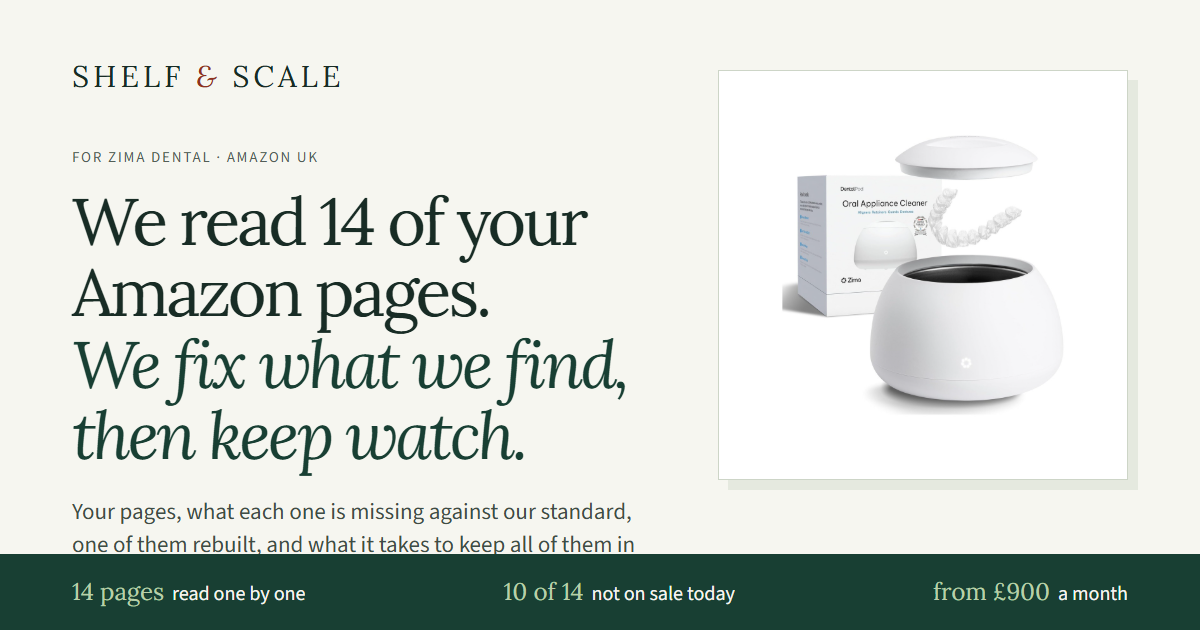
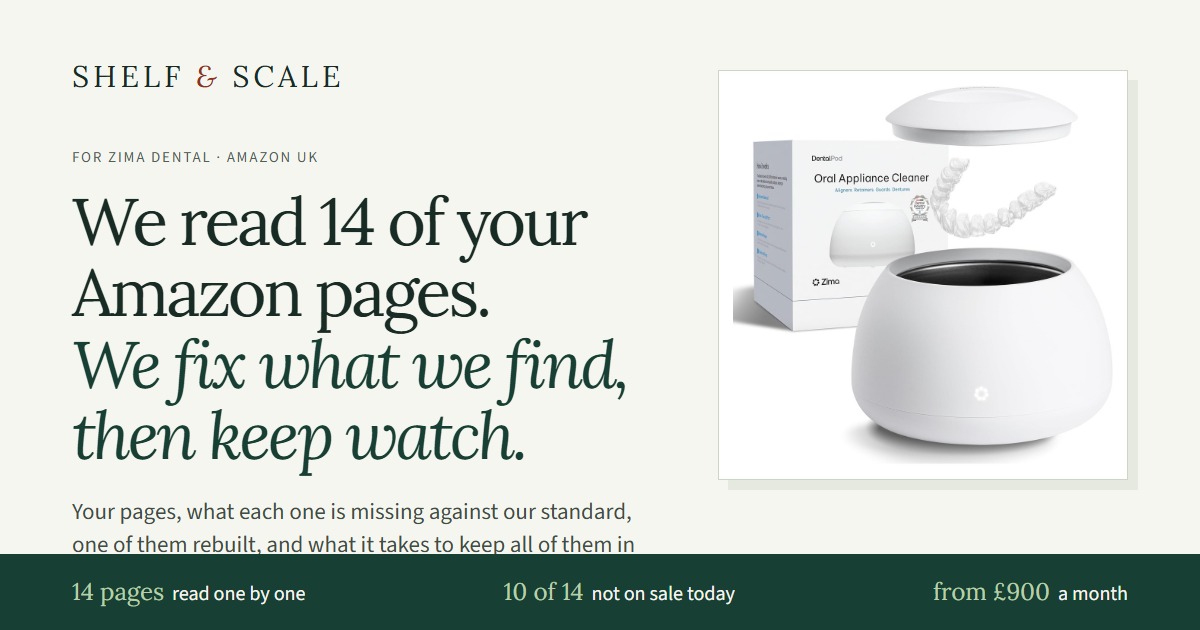
Sons: duplicate page on phones; Zima: own gallery kept; Minky: own seller account, table fix

Changed region(s): [[0.5858, 0.1508, 0.8942, 0.754], [0.8325, 0.3016, 0.8942, 0.3619]]

diff --git a/r/zima-dental-care/index.html b/r/zima-dental-care/index.html
@@ -46,12 +46,12 @@
     </div>
     <div class="hero-art">
       <div class="product-sheet">
-        <div class="sheet-top"><span class="micro">POD · REBUILT</span><span class="sheet-number">B0H6Q5M6P3</span></div>
-        <div class="packshot" style="height:auto;aspect-ratio:1224 / 1000;max-height:418px"><img src="img/pod-main-hero-v1.jpg" width="1000" height="1000" alt="Your Zima Dental Pod and box on white" fetchpriority="high"></div>
+        <div class="sheet-top"><span class="micro">POD · NEW TITLE</span><span class="sheet-number">B0H6Q5M6P3</span></div>
+        <div class="packshot" style="height:auto;aspect-ratio:1224 / 1000;max-height:418px"><img src="img/pod-main-hero-v1.jpg" width="1000" height="1000" alt="Your Zima Dental Pod and box, your own main photo" fetchpriority="high"></div>
         <div class="sheet-product"><span>ZIMA DENTAL</span><h2>Pod Next-Generation, Arctic White</h2><p>298 ratings · 4.6 stars · 1K+ bought in past month · £79.99</p></div>
         <div class="sheet-checks"><span><i aria-hidden="true">✓</i> Same account</span><span><i aria-hidden="true">✓</i> Your price</span><span><i aria-hidden="true">✓</i> Every page checked weekly</span></div>
       </div>
-      <div class="art-caption"><span class="micro">MAIN IMAGE</span><span>Your own Pod and box on white, with room around them</span></div>
+      <div class="art-caption"><span class="micro">YOUR PHOTO</span><span>Your own main photo, kept: your gallery is strong</span></div>
     </div>
   </section>
   <!-- THREE NUMBERS -->
@@ -113,13 +113,13 @@
   </section>
   <!-- THE EXAMPLE -->
   <section class="container section" id="example" aria-labelledby="example-title">
-    <div class="section-heading"><div><p class="eyebrow">02 / THE EXAMPLE</p><h2 id="example-title">Your Pod Next-Generation, today <em class="ln">and rebuilt.</em></h2></div><p>Most Amazon UK shoppers see a page on a phone. This is the first screen: photo, title, stars, and whether they can buy. The left phone is your page as it stands today; the right is our concept for the same page, at your price. In Care the title, bullets and search terms are rewritten and new photos like these come in the monthly quota; A+ is quoted per page.</p></div>
+    <div class="section-heading"><div><p class="eyebrow">02 / THE EXAMPLE</p><h2 id="example-title">Your Pod Next-Generation, today <em class="ln">and with a new title.</em></h2></div><p>Most Amazon UK shoppers see a page on a phone. The left phone is your page as it stands today; the right is the same page with the title rewritten to carry "retainer cleaner", at your price. The photos are yours on both: the gallery is strong, so it stays as it is.</p></div>
 
 
     <div class="phones-block">
-  <div class="page-head"><span class="page-num">01</span><h3>Pod Next-Generation, Arctic White</h3><p>298 ratings · 4.6 stars · 1K+ bought in past month</p><span class="page-asin">B0H6Q5M6P3</span><dl class="page-delta"><div><dt>Title</dt><dd><s>Zima Dental Pod: Next-Generation Ultrasonic Cleaner for Retainers, Aligners, Night Guards, Mouthguards & Dentures. Precision Oral Appliance Cleaning Machine (Arctic White)</s><br>Zima Dental Pod: Next-Generation Ultrasonic Retainer Cleaner for Aligners, Night Guards, Mouthguards & Dentures (Arctic White)</dd></div><div><dt>Main image</dt><dd>Your photo: box, Pod, lid and aligner filling the frame → the same pieces on white with white around them; made in the monthly photo quota</dd></div><div><dt>Bullets</dt><dd>Five lines that already carry the facts: what it cleans, the ultrasonic technology, two modes, the 12-month warranty → they keep your wording and your award line; the order follows a shopper's questions, and "retainer cleaner" now opens the title as well as bullet 1</dd></div><div><dt>Gallery</dt><dd>Eight photos, a video and A+, already above our seven → kept; the first three made to answer what is it, what is it like, how do I use it. A+ is already on the page</dd></div><div><dt>Offer</dt><dd>Unchanged: ZIMA DENTAL UK at £79.99, in stock. The price is yours to set</dd></div></dl></div>
+  <div class="page-head"><span class="page-num">01</span><h3>Pod Next-Generation, Arctic White</h3><p>298 ratings · 4.6 stars · 1K+ bought in past month</p><span class="page-asin">B0H6Q5M6P3</span><dl class="page-delta"><div><dt>Title</dt><dd><s>Zima Dental Pod: Next-Generation Ultrasonic Cleaner for Retainers, Aligners, Night Guards, Mouthguards & Dentures. Precision Oral Appliance Cleaning Machine (Arctic White)</s><br>Zima Dental Pod: Next-Generation Ultrasonic Retainer Cleaner for Aligners, Night Guards, Mouthguards & Dentures (Arctic White)</dd></div><div><dt>Main image</dt><dd>Your photo: box, Pod, lid and aligner → kept as it is</dd></div><div><dt>Bullets</dt><dd>Five lines that already carry the facts: what it cleans, the ultrasonic technology, two modes, the 12-month warranty → they keep your wording and your award line; the order follows a shopper's questions, and "retainer cleaner" now opens the title as well as bullet 1</dd></div><div><dt>Gallery</dt><dd>Eight photos, five videos and A+: a strong gallery → stays as it is; we make no new frames for this page</dd></div><div><dt>Offer</dt><dd>Unchanged: ZIMA DENTAL UK at £79.99, in stock. The price is yours to set</dd></div></dl></div>
   <div>
-  <div class="ph-toggle" role="tablist" aria-label="Show the page"><button type="button" class="on" data-show="today">Today</button><button type="button" data-show="after">Rebuilt</button></div>
+  <div class="ph-toggle" role="tablist" aria-label="Show the page"><button type="button" class="on" data-show="today">Today</button><button type="button" data-show="after">New title</button></div>
   <div class="phones" data-show="today">
     <figure class="phone today"><div class="ph-device"><div class="ph-screen">
   <div class="ph-status"></div><div class="ph-search"><svg class="ph-back" viewBox="0 0 16 16" fill="none" stroke="#0f1111" stroke-width="1.8" stroke-linecap="round" stroke-linejoin="round"><path d="M10 2 4 8l6 6"/></svg><span class="ph-box"><svg width="13" height="13" viewBox="0 0 16 16" fill="none" stroke="#565959" stroke-width="1.8" stroke-linecap="round"><circle cx="6.8" cy="6.8" r="5"/><path d="m10.5 10.5 4 4"/></svg>Search or ask a question</span><svg width="16" height="14" viewBox="0 0 20 17" fill="none" stroke="#0f1111" stroke-width="1.6" stroke-linejoin="round"><path d="M2 5h3.5l1.5-2.5h6L14.5 5H18v10H2z"/><circle cx="10" cy="10" r="3"/></svg></div>
@@ -128,8 +128,8 @@
 
     <figure class="phone after"><div class="ph-device"><div class="ph-screen">
   <div class="ph-status"></div><div class="ph-search"><svg class="ph-back" viewBox="0 0 16 16" fill="none" stroke="#0f1111" stroke-width="1.8" stroke-linecap="round" stroke-linejoin="round"><path d="M10 2 4 8l6 6"/></svg><span class="ph-box"><svg width="13" height="13" viewBox="0 0 16 16" fill="none" stroke="#565959" stroke-width="1.8" stroke-linecap="round"><circle cx="6.8" cy="6.8" r="5"/><path d="m10.5 10.5 4 4"/></svg>Search or ask a question</span><svg width="16" height="14" viewBox="0 0 20 17" fill="none" stroke="#0f1111" stroke-width="1.6" stroke-linejoin="round"><path d="M2 5h3.5l1.5-2.5h6L14.5 5H18v10H2z"/><circle cx="10" cy="10" r="3"/></svg></div>
-  <div class="ph-body"><div class="ph-store"><a>Visit the Zima Dental Store</a><span class="ph-rating"><span>4.6</span><span class="stars">★★★★☆</span><span class="ph-n">(298)</span></span></div><div class="ph-title">Zima Dental Pod: Next-Generation Ultrasonic <u>Retainer Cleaner</u> for Aligners, Night Guards, Mouthguards & Dentures (Arctic White)</div><div class="ph-img"><img src="img/pod-main-v1.jpg" alt="Pod rebuilt: the new main image, concept" loading="lazy" width="800" height="800"><div class="ph-dots"><i class="on"></i><i></i><i></i><i></i><i></i><i></i><i></i><i></i><span class="ph-icons"><svg width="16" height="15" viewBox="0 0 24 22" fill="none" stroke="#0f1111" stroke-width="1.8"><path d="M12 20s-9-5.6-9-12a5 5 0 0 1 9-3 5 5 0 0 1 9 3c0 6.4-9 12-9 12z"/></svg><svg width="15" height="15" viewBox="0 0 24 24" fill="none" stroke="#0f1111" stroke-width="1.8" stroke-linecap="round"><circle cx="18" cy="5" r="2.5"/><circle cx="6" cy="12" r="2.5"/><circle cx="18" cy="19" r="2.5"/><path d="m8.2 10.8 7.6-4.6M8.2 13.2l7.6 4.6"/></svg></span></div></div><div class="ph-price"><span class="ph-sym">£</span>79.99</div><div class="ph-avail">In stock</div><div class="ph-save"><span class="ph-btn yellow">Add to Basket</span><span class="ph-btn orange">Buy Now</span></div><div class="ph-nav"><span class="cur"><svg width="20" height="20" viewBox="0 0 24 24" fill="none" stroke="#0f1111" stroke-width="1.7" stroke-linejoin="round"><path d="M3 11 12 3l9 8v10h-6v-6H9v6H3z"/></svg><b>Home</b></span><span><svg width="20" height="20" viewBox="0 0 24 24" fill="none" stroke="#0f1111" stroke-width="1.7"><circle cx="12" cy="8" r="4"/><path d="M4 21a8 8 0 0 1 16 0"/></svg><b>You</b></span><span><svg width="20" height="20" viewBox="0 0 24 24" fill="none" stroke="#0f1111" stroke-width="1.7" stroke-linejoin="round"><path d="M3 4h2l2.5 11h11L21 7H6.5"/><circle cx="9" cy="19" r="1.5"/><circle cx="17" cy="19" r="1.5"/></svg><b>Basket</b></span><span><svg width="20" height="20" viewBox="0 0 24 24" fill="none" stroke="#0f1111" stroke-width="1.7" stroke-linecap="round"><path d="M4 7h16M4 12h16M4 17h16"/></svg><b>Browse</b></span></div><div class="ph-home"></div></div>
-</div><img class="ph-frame" src="img/frame/iphone.png" alt="" width="640" height="1283" loading="lazy"></div><figcaption>Rebuilt · our concept · your price today</figcaption></figure>
+  <div class="ph-body"><div class="ph-store"><a>Visit the Zima Dental Store</a><span class="ph-rating"><span>4.6</span><span class="stars">★★★★☆</span><span class="ph-n">(298)</span></span></div><div class="ph-title">Zima Dental Pod: Next-Generation Ultrasonic <u>Retainer Cleaner</u> for Aligners, Night Guards, Mouthguards & Dentures (Arctic White)</div><div class="ph-img"><img src="img/ph-pod-today.jpg" alt="Pod with the new title, concept: your own main photo, unchanged" loading="lazy" width="800" height="800"><div class="ph-dots"><i class="on"></i><i></i><i></i><i></i><i></i><i></i><i></i><i></i><span class="ph-icons"><svg width="16" height="15" viewBox="0 0 24 22" fill="none" stroke="#0f1111" stroke-width="1.8"><path d="M12 20s-9-5.6-9-12a5 5 0 0 1 9-3 5 5 0 0 1 9 3c0 6.4-9 12-9 12z"/></svg><svg width="15" height="15" viewBox="0 0 24 24" fill="none" stroke="#0f1111" stroke-width="1.8" stroke-linecap="round"><circle cx="18" cy="5" r="2.5"/><circle cx="6" cy="12" r="2.5"/><circle cx="18" cy="19" r="2.5"/><path d="m8.2 10.8 7.6-4.6M8.2 13.2l7.6 4.6"/></svg></span></div></div><div class="ph-price"><span class="ph-sym">£</span>79.99</div><div class="ph-avail">In stock</div><div class="ph-save"><span class="ph-btn yellow">Add to Basket</span><span class="ph-btn orange">Buy Now</span></div><div class="ph-nav"><span class="cur"><svg width="20" height="20" viewBox="0 0 24 24" fill="none" stroke="#0f1111" stroke-width="1.7" stroke-linejoin="round"><path d="M3 11 12 3l9 8v10h-6v-6H9v6H3z"/></svg><b>Home</b></span><span><svg width="20" height="20" viewBox="0 0 24 24" fill="none" stroke="#0f1111" stroke-width="1.7"><circle cx="12" cy="8" r="4"/><path d="M4 21a8 8 0 0 1 16 0"/></svg><b>You</b></span><span><svg width="20" height="20" viewBox="0 0 24 24" fill="none" stroke="#0f1111" stroke-width="1.7" stroke-linejoin="round"><path d="M3 4h2l2.5 11h11L21 7H6.5"/><circle cx="9" cy="19" r="1.5"/><circle cx="17" cy="19" r="1.5"/></svg><b>Basket</b></span><span><svg width="20" height="20" viewBox="0 0 24 24" fill="none" stroke="#0f1111" stroke-width="1.7" stroke-linecap="round"><path d="M4 7h16M4 12h16M4 17h16"/></svg><b>Browse</b></span></div><div class="ph-home"></div></div>
+</div><img class="ph-frame" src="img/frame/iphone.png" alt="" width="640" height="1283" loading="lazy"></div><figcaption>New title · your own photos</figcaption></figure>
 
   </div>
   </div>
@@ -150,19 +150,9 @@
         <p class="note">Zima Dental Pod: Next-Generation stays first, and the title gains the phrase shoppers type, "retainer cleaner", from your own bullet 1. "Precision Oral Appliance Cleaning Machine" repeats what the rest of the title says, so it goes. About 125 characters.</p>
       </div>
       <div class="panel">
-        <span class="micro">SEVEN FRAMES, ONE QUESTION EACH · THREE SHOWN FOR THIS PAGE</span>
-        <div class="frames">
-          <div><i>1</i><img src="img/pod-main-v1.jpg" alt="Frame 1: the Pod, lid and box on white" loading="lazy" width="400" height="400"><span><b>What is it</b>Main image, on white</span></div>
-          <div><i>2</i><img src="img/pod-inside-v1.jpg" alt="Frame 2: the steel tank with an aligner in water and fine bubbles" loading="lazy" width="400" height="400"><span><b>What is it like</b>Inside the tank, an aligner in the water</span></div>
-          <div><i>3</i><img src="img/pod-use-v2.jpg" alt="Frame 3 concept: the Pod on a bathroom vanity, lid off, an aligner inside" loading="lazy" width="400" height="400"><span><b>How do I use it</b>On the bathroom vanity, lid off</span></div>
-        </div>
-        <ol class="frames-rest">
-          <li><i>4</i><b>What does it clean</b> aligners, retainers, night guards, mouthguards and dentures, as in your title and bullet 1</li>
-          <li><i>5</i><b>How does it clean</b> ultrasonic cavitation, in your own words from bullet 3</li>
-          <li><i>6</i><b>Which cycle do I use</b> the standard cycle and Max Clean, from bullet 4</li>
-          <li><i>7</i><b>What if something goes wrong</b> the 12-month warranty and the one-business-day support reply, from bullet 5</li>
-        </ol>
-        <p class="note">Frames 1 to 3 are built from your own product photo for this page: what Care makes for a page in the monthly photo quota (4 pages a month on Care S); frames 4 to 7 show what a full gallery would answer. Your page already carries eight photos, so in Care these would reorder the gallery rather than add to it. A+ is separate and quoted per page.</p>
+        <span class="micro">YOUR GALLERY · STRONG, IT STAYS</span>
+        <p class="own-gallery" style="font-size:17px;line-height:1.5;margin:12px 0 0;color:var(--ink)">Eight photos, five videos and A+ on this page. That is a strong gallery, so we leave it as it is and make no new photos for it.</p>
+        <p class="note">In Care, new photos go first to the pages that need them: Zima Fresh carries two photos and the Zima Go case six. A+ is quoted per page.</p>
       </div>
     </div>
   </section>
@@ -184,7 +174,7 @@
           <article class=""><div class="shelf-img"><img src="img/shelf/t9.jpg" alt="" loading="lazy" width="320" height="320"></div><h4>Ultrasonic Retainer Cleaner with UV-C Light for Aligners, Retainers, Dentures & Mouthguards – Daily Deep Cleaning Dental Appliance Machine Portable, Easy to Use at Home & Travel, White</h4><div class="shelf-rating"><span>4.6</span> <span class="stars">★★★★☆</span> <span class="n">(42)</span></div><div class="shelf-bought">700+ bought in past month</div><div class="shelf-price">£27.95</div></article>
           <article class="you"><span class="you-tag">YOUR PAGE · OUR CONCEPT</span><div class="shelf-img"><img src="img/shelf/t10-v1.jpg" alt="" loading="lazy" width="320" height="320"></div><h4>Zima Dental Pod: Next-Generation Ultrasonic Retainer Cleaner for Aligners, Night Guards, Mouthguards & Dentures (Arctic White)</h4><div class="shelf-rating"><span>4.6</span> <span class="stars">★★★★☆</span> <span class="n">(298)</span></div><div class="shelf-bought">1K+ bought in past month</div><div class="shelf-price">£79.99</div></article>
         </div>
-        <figcaption>Amazon.co.uk, search "retainer cleaner", 12 October 2026, London address, 12 sponsored tiles removed; organic results 6 to 10 in order, titles cut for space, ratings, labels and prices as listed that day. Result 10 is your Pod Next-Generation page, shown as our concept for it: new main image, new title, its rating, label and price as listed. Rank follows sales, and a rebuilt page does not buy a position.</figcaption>
+        <figcaption>Amazon.co.uk, search "retainer cleaner", 12 October 2026, London address, 12 sponsored tiles removed; organic results 6 to 10 in order, titles cut for space, ratings, labels and prices as listed that day. Result 10 is your Pod Next-Generation page, shown as our concept for it: your own photo, the new title, its rating, label and price as listed. Rank follows sales, and a rebuilt page does not buy a position.</figcaption>
       </figure>
     </div>
   </section>
@@ -232,7 +222,7 @@
         <li><strong>Search phrases.</strong> One year of Amazon UK search data, 1.46 million phrases. The rank shown is the phrase's best weekly position in that year.</li>
         <li><strong>The shelf.</strong> Amazon.co.uk search "retainer cleaner", first page, London EC2A address, 12 October 2026: 360 results, 12 sponsored tiles removed. Organic results 6 to 10 are shown; result 10 is your Pod Next-Generation page, shown as our concept; a second colour of it is result 13.</li>
         <li><strong>Your website.</strong> zimadental.co.uk, 12 October 2026: its home page lists the Dental Pod Ultrasonic Cleaner at £79.99, the Pod Pro, the Zima UV Case, Zima Fresh, ultrasonic tablets and bundles. The Hydro Pod is not on the home page of the UK or the US shop.</li>
-        <li><strong>What is real and what is a concept.</strong> Real: every number, date, rating count, search rank, price, and the left phone. Concept: the new title and bullets, the three gallery frames and the hero image, built from Zima Dental's own product photograph. Whether Amazon lets your account change each element of a page is confirmed in the first week of Care, before anything is filed.</li>
+        <li><strong>What is real and what is a concept.</strong> Real: every number, date, rating count, search rank, price, the left phone and every photo: all are Zima Dental's own, from the live page (the hero and the shelf tile add white space around it). Concept: the new title and bullets, on the right phone and the shelf tile. Whether Amazon lets your account change each element of a page is confirmed in the first week of Care, before anything is filed.</li>
       </ul></details>
     </div>
   </section>

diff --git a/r/sons-care/index.html b/r/sons-care/index.html
@@ -109,23 +109,23 @@
   </section>
   <!-- THE EXAMPLE -->
   <section class="container section" id="example" aria-labelledby="example-title">
-    <div class="section-heading"><div><p class="eyebrow">02 / THE EXAMPLE</p><h2 id="example-title">Your Minoxidil 5% Spray, today <em class="ln">and rebuilt.</em></h2></div><p>Most Amazon UK shoppers see a page on a phone. This is the first screen: photo, title, stars, and whether they can buy. The left phone is your page as it stands today; the right is our concept for the same page, at your price. In Care the title, bullets and search terms are rewritten and new photos like these come in the monthly quota; A+ is quoted per page.</p></div>
+    <div class="section-heading"><div><p class="eyebrow">02 / THE EXAMPLE</p><h2 id="example-title">Your 60 ml spray: two pages today, <em class="ln">one page after the case.</em></h2></div><p>Most Amazon UK shoppers see a page on a phone. The left phone is your second page for the 60 ml spray, B0CY33HRL6, as it stands today: same title, same barcode, 204 ratings, and it cannot be bought. The right is the one page, B09RVJ59T7, after a case asking Amazon to put the two together, at your price. Whether the 204 ratings join the 1,985 is Amazon's call.</p></div>
 
 
     <div class="phones-block">
-  <div class="page-head"><span class="page-num">01</span><h3>Minoxidil 5% Spray, 60 ml</h3><p>1,985 ratings · 4.1 stars · 3K+ bought in past month</p><span class="page-asin">B09RVJ59T7</span><dl class="page-delta"><div><dt>Title</dt><dd><s>Sons Minoxidil 5% Spray (1x60ml), Hair Regrowth Treatment for Men</s> → unchanged: it already gives the brand, the strength, the size and who it is for; wording for a medicine is yours to approve</dd></div><div><dt>Second page</dt><dd>B0CY33HRL6 carries the same title and the same barcode, shows "Currently unavailable" and 204 ratings → a case asking Amazon to put the two on one page; Amazon decides</dd></div><div><dt>Main image</dt><dd>Your photo of the box and bottle, filling the frame → the same photo with white around it; made in the monthly photo quota</dd></div><div><dt>Bullets</dt><dd>Five lines of treatment wording → not rewritten by us: for a medicine the wording is yours and your pharmacist's to approve</dd></div><div><dt>Gallery and A+</dt><dd>Six photos, a video and A+ → a seventh photo, the spray nozzle close up; the other six, the video and the A+ stay</dd></div><div><dt>Offer</dt><dd>Unchanged: your offer at £20.89, in stock, dispatched by Amazon. The price is yours to set</dd></div></dl></div>
+  <div class="page-head"><span class="page-num">01</span><h3>Minoxidil 5% Spray, 60 ml, on two pages</h3><p>B09RVJ59T7: 1,985 ratings, on sale · B0CY33HRL6: 204 ratings, "Currently unavailable"</p><span class="page-asin">B09RVJ59T7 · B0CY33HRL6</span><dl class="page-delta"><div><dt>Two pages</dt><dd>B0CY33HRL6 carries the same title and the same barcode, shows "Currently unavailable" and 204 ratings → a case asking Amazon to put the two on one page; Amazon decides, including whether the 204 ratings join the 1,985</dd></div><div><dt>Title</dt><dd><s>Sons Minoxidil 5% Spray (1x60ml), Hair Regrowth Treatment for Men</s> → unchanged: it already gives the brand, the strength, the size and who it is for; wording for a medicine is yours to approve</dd></div><div><dt>Main image</dt><dd>Your photo of the box and bottle, filling the frame → the same photo with white around it; made in the monthly photo quota</dd></div><div><dt>Bullets</dt><dd>Five lines of treatment wording → not rewritten by us: for a medicine the wording is yours and your pharmacist's to approve</dd></div><div><dt>Gallery and A+</dt><dd>Six photos, a video and A+ → a seventh photo, the spray nozzle close up; the other six, the video and the A+ stay</dd></div><div><dt>Offer</dt><dd>Unchanged: your offer at £20.89, in stock, dispatched by Amazon. The price is yours to set</dd></div></dl></div>
   <div>
-  <div class="ph-toggle" role="tablist" aria-label="Show the page"><button type="button" class="on" data-show="today">Today</button><button type="button" data-show="after">Rebuilt</button></div>
+  <div class="ph-toggle" role="tablist" aria-label="Show the page"><button type="button" class="on" data-show="today">Today</button><button type="button" data-show="after">One page</button></div>
   <div class="phones" data-show="today">
     <figure class="phone today"><div class="ph-device"><div class="ph-screen">
   <div class="ph-status"></div><div class="ph-search"><svg class="ph-back" viewBox="0 0 16 16" fill="none" stroke="#0f1111" stroke-width="1.8" stroke-linecap="round" stroke-linejoin="round"><path d="M10 2 4 8l6 6"/></svg><span class="ph-box"><svg width="13" height="13" viewBox="0 0 16 16" fill="none" stroke="#565959" stroke-width="1.8" stroke-linecap="round"><circle cx="6.8" cy="6.8" r="5"/><path d="m10.5 10.5 4 4"/></svg>Search or ask a question</span><svg width="16" height="14" viewBox="0 0 20 17" fill="none" stroke="#0f1111" stroke-width="1.6" stroke-linejoin="round"><path d="M2 5h3.5l1.5-2.5h6L14.5 5H18v10H2z"/><circle cx="10" cy="10" r="3"/></svg></div>
-  <div class="ph-body"><div class="ph-store"><a>Visit the Sons Store</a><span class="ph-rating"><span>4.1</span><span class="stars">★★★★☆</span><span class="ph-n">(1,985)</span></span></div><div class="ph-title">Sons Minoxidil 5% Spray (1x60ml), Hair Regrowth Treatment for Men</div><div class="ph-img"><img src="img/ph-spray-today.jpg" alt="Minoxidil 5% Spray on Amazon today: the box and bottle, the first of six photos" loading="lazy" width="800" height="800"><div class="ph-dots"><i class="on"></i><i></i><i></i><i></i><i></i><i></i><span class="ph-icons"><svg width="16" height="15" viewBox="0 0 24 22" fill="none" stroke="#0f1111" stroke-width="1.8"><path d="M12 20s-9-5.6-9-12a5 5 0 0 1 9-3 5 5 0 0 1 9 3c0 6.4-9 12-9 12z"/></svg><svg width="15" height="15" viewBox="0 0 24 24" fill="none" stroke="#0f1111" stroke-width="1.8" stroke-linecap="round"><circle cx="18" cy="5" r="2.5"/><circle cx="6" cy="12" r="2.5"/><circle cx="18" cy="19" r="2.5"/><path d="m8.2 10.8 7.6-4.6M8.2 13.2l7.6 4.6"/></svg></span></div></div><div class="ph-price"><span class="ph-sym">£</span>20.89<small>(£34.82 /100 ml)</small></div><div class="ph-avail">In stock</div><div class="ph-save"><span class="ph-btn yellow">Add to Basket</span><span class="ph-btn orange">Buy Now</span></div><div class="ph-nav"><span class="cur"><svg width="20" height="20" viewBox="0 0 24 24" fill="none" stroke="#0f1111" stroke-width="1.7" stroke-linejoin="round"><path d="M3 11 12 3l9 8v10h-6v-6H9v6H3z"/></svg><b>Home</b></span><span><svg width="20" height="20" viewBox="0 0 24 24" fill="none" stroke="#0f1111" stroke-width="1.7"><circle cx="12" cy="8" r="4"/><path d="M4 21a8 8 0 0 1 16 0"/></svg><b>You</b></span><span><svg width="20" height="20" viewBox="0 0 24 24" fill="none" stroke="#0f1111" stroke-width="1.7" stroke-linejoin="round"><path d="M3 4h2l2.5 11h11L21 7H6.5"/><circle cx="9" cy="19" r="1.5"/><circle cx="17" cy="19" r="1.5"/></svg><b>Basket</b></span><span><svg width="20" height="20" viewBox="0 0 24 24" fill="none" stroke="#0f1111" stroke-width="1.7" stroke-linecap="round"><path d="M4 7h16M4 12h16M4 17h16"/></svg><b>Browse</b></span></div><div class="ph-home"></div></div>
-</div><img class="ph-frame" src="img/frame/iphone.png" alt="" width="640" height="1283" loading="lazy"></div><figcaption>Today</figcaption></figure>
+  <div class="ph-body"><div class="ph-store"><a>Visit the Sons Store</a><span class="ph-rating"><span>3.9</span><span class="stars">★★★★☆</span><span class="ph-n">(204)</span></span></div><div class="ph-title">Sons Minoxidil 5% Spray (1x60ml), Hair Regrowth Treatment for Men</div><div class="ph-img"><img src="img/ph-spray-twin-today.jpg" alt="The second page, B0CY33HRL6, on Amazon today: your own bottle photo, 204 ratings, Currently unavailable" loading="lazy" width="800" height="800"><span class="ph-badge" style="position:absolute;top:.7em;right:1.9em;padding:.3em .7em;border-radius:.4em;background:#8E3120;color:#fff;font-size:.95em;font-weight:600;line-height:1.25;max-width:60%">Page 2 of 2</span><div class="ph-dots"><i class="on"></i><i></i><i></i><i></i><i></i><i></i><i></i><i></i><i></i><span class="ph-icons"><svg width="16" height="15" viewBox="0 0 24 22" fill="none" stroke="#0f1111" stroke-width="1.8"><path d="M12 20s-9-5.6-9-12a5 5 0 0 1 9-3 5 5 0 0 1 9 3c0 6.4-9 12-9 12z"/></svg><svg width="15" height="15" viewBox="0 0 24 24" fill="none" stroke="#0f1111" stroke-width="1.8" stroke-linecap="round"><circle cx="18" cy="5" r="2.5"/><circle cx="6" cy="12" r="2.5"/><circle cx="18" cy="19" r="2.5"/><path d="m8.2 10.8 7.6-4.6M8.2 13.2l7.6 4.6"/></svg></span></div></div><div class="ph-avail off">Currently unavailable.<small>We don't know when or if this item will be back in stock.</small></div><div class="ph-save">Save this item<span class="ph-btn">Add to List</span></div><div class="ph-nav"><span class="cur"><svg width="20" height="20" viewBox="0 0 24 24" fill="none" stroke="#0f1111" stroke-width="1.7" stroke-linejoin="round"><path d="M3 11 12 3l9 8v10h-6v-6H9v6H3z"/></svg><b>Home</b></span><span><svg width="20" height="20" viewBox="0 0 24 24" fill="none" stroke="#0f1111" stroke-width="1.7"><circle cx="12" cy="8" r="4"/><path d="M4 21a8 8 0 0 1 16 0"/></svg><b>You</b></span><span><svg width="20" height="20" viewBox="0 0 24 24" fill="none" stroke="#0f1111" stroke-width="1.7" stroke-linejoin="round"><path d="M3 4h2l2.5 11h11L21 7H6.5"/><circle cx="9" cy="19" r="1.5"/><circle cx="17" cy="19" r="1.5"/></svg><b>Basket</b></span><span><svg width="20" height="20" viewBox="0 0 24 24" fill="none" stroke="#0f1111" stroke-width="1.7" stroke-linecap="round"><path d="M4 7h16M4 12h16M4 17h16"/></svg><b>Browse</b></span></div><div class="ph-home"></div></div>
+</div><img class="ph-frame" src="img/frame/iphone.png" alt="" width="640" height="1283" loading="lazy"></div><figcaption>Today · page 2, B0CY33HRL6</figcaption></figure>
 
     <figure class="phone after"><div class="ph-device"><div class="ph-screen">
   <div class="ph-status"></div><div class="ph-search"><svg class="ph-back" viewBox="0 0 16 16" fill="none" stroke="#0f1111" stroke-width="1.8" stroke-linecap="round" stroke-linejoin="round"><path d="M10 2 4 8l6 6"/></svg><span class="ph-box"><svg width="13" height="13" viewBox="0 0 16 16" fill="none" stroke="#565959" stroke-width="1.8" stroke-linecap="round"><circle cx="6.8" cy="6.8" r="5"/><path d="m10.5 10.5 4 4"/></svg>Search or ask a question</span><svg width="16" height="14" viewBox="0 0 20 17" fill="none" stroke="#0f1111" stroke-width="1.6" stroke-linejoin="round"><path d="M2 5h3.5l1.5-2.5h6L14.5 5H18v10H2z"/><circle cx="10" cy="10" r="3"/></svg></div>
-  <div class="ph-body"><div class="ph-store"><a>Visit the Sons Store</a><span class="ph-rating"><span>4.1</span><span class="stars">★★★★☆</span><span class="ph-n">(1,985)</span></span></div><div class="ph-title">Sons Minoxidil 5% Spray (1x60ml), Hair Regrowth Treatment for Men</div><div class="ph-img"><img src="img/spray-main-v1.jpg" alt="Minoxidil 5% Spray rebuilt: the new main image, concept" loading="lazy" width="800" height="800"><div class="ph-dots"><i class="on"></i><i></i><i></i><i></i><i></i><i></i><i></i><span class="ph-icons"><svg width="16" height="15" viewBox="0 0 24 22" fill="none" stroke="#0f1111" stroke-width="1.8"><path d="M12 20s-9-5.6-9-12a5 5 0 0 1 9-3 5 5 0 0 1 9 3c0 6.4-9 12-9 12z"/></svg><svg width="15" height="15" viewBox="0 0 24 24" fill="none" stroke="#0f1111" stroke-width="1.8" stroke-linecap="round"><circle cx="18" cy="5" r="2.5"/><circle cx="6" cy="12" r="2.5"/><circle cx="18" cy="19" r="2.5"/><path d="m8.2 10.8 7.6-4.6M8.2 13.2l7.6 4.6"/></svg></span></div></div><div class="ph-price"><span class="ph-sym">£</span>20.89<small>(£34.82 /100 ml)</small></div><div class="ph-avail">In stock</div><div class="ph-save"><span class="ph-btn yellow">Add to Basket</span><span class="ph-btn orange">Buy Now</span></div><div class="ph-nav"><span class="cur"><svg width="20" height="20" viewBox="0 0 24 24" fill="none" stroke="#0f1111" stroke-width="1.7" stroke-linejoin="round"><path d="M3 11 12 3l9 8v10h-6v-6H9v6H3z"/></svg><b>Home</b></span><span><svg width="20" height="20" viewBox="0 0 24 24" fill="none" stroke="#0f1111" stroke-width="1.7"><circle cx="12" cy="8" r="4"/><path d="M4 21a8 8 0 0 1 16 0"/></svg><b>You</b></span><span><svg width="20" height="20" viewBox="0 0 24 24" fill="none" stroke="#0f1111" stroke-width="1.7" stroke-linejoin="round"><path d="M3 4h2l2.5 11h11L21 7H6.5"/><circle cx="9" cy="19" r="1.5"/><circle cx="17" cy="19" r="1.5"/></svg><b>Basket</b></span><span><svg width="20" height="20" viewBox="0 0 24 24" fill="none" stroke="#0f1111" stroke-width="1.7" stroke-linecap="round"><path d="M4 7h16M4 12h16M4 17h16"/></svg><b>Browse</b></span></div><div class="ph-home"></div></div>
-</div><img class="ph-frame" src="img/frame/iphone.png" alt="" width="640" height="1283" loading="lazy"></div><figcaption>Rebuilt · our concept · your price today</figcaption></figure>
+  <div class="ph-body"><div class="ph-store"><a>Visit the Sons Store</a><span class="ph-rating"><span>4.1</span><span class="stars">★★★★☆</span><span class="ph-n">(1,985)</span></span></div><div class="ph-title">Sons Minoxidil 5% Spray (1x60ml), Hair Regrowth Treatment for Men</div><div class="ph-img"><img src="img/spray-main-v1.jpg" alt="One page for the spray, B09RVJ59T7, after the case: your box and bottle photo on white, concept" loading="lazy" width="800" height="800"><span class="ph-badge" style="position:absolute;top:.7em;right:1.9em;padding:.3em .7em;border-radius:.4em;background:#1f3d2b;color:#fff;font-size:.95em;font-weight:600;line-height:1.25;max-width:60%">One page</span><div class="ph-dots"><i class="on"></i><i></i><i></i><i></i><i></i><i></i><i></i><span class="ph-icons"><svg width="16" height="15" viewBox="0 0 24 22" fill="none" stroke="#0f1111" stroke-width="1.8"><path d="M12 20s-9-5.6-9-12a5 5 0 0 1 9-3 5 5 0 0 1 9 3c0 6.4-9 12-9 12z"/></svg><svg width="15" height="15" viewBox="0 0 24 24" fill="none" stroke="#0f1111" stroke-width="1.8" stroke-linecap="round"><circle cx="18" cy="5" r="2.5"/><circle cx="6" cy="12" r="2.5"/><circle cx="18" cy="19" r="2.5"/><path d="m8.2 10.8 7.6-4.6M8.2 13.2l7.6 4.6"/></svg></span></div></div><div class="ph-price"><span class="ph-sym">£</span>20.89<small>(£34.82 /100 ml)</small></div><div class="ph-avail">In stock</div><div class="ph-save"><span class="ph-btn yellow">Add to Basket</span><span class="ph-btn orange">Buy Now</span></div><div class="ph-nav"><span class="cur"><svg width="20" height="20" viewBox="0 0 24 24" fill="none" stroke="#0f1111" stroke-width="1.7" stroke-linejoin="round"><path d="M3 11 12 3l9 8v10h-6v-6H9v6H3z"/></svg><b>Home</b></span><span><svg width="20" height="20" viewBox="0 0 24 24" fill="none" stroke="#0f1111" stroke-width="1.7"><circle cx="12" cy="8" r="4"/><path d="M4 21a8 8 0 0 1 16 0"/></svg><b>You</b></span><span><svg width="20" height="20" viewBox="0 0 24 24" fill="none" stroke="#0f1111" stroke-width="1.7" stroke-linejoin="round"><path d="M3 4h2l2.5 11h11L21 7H6.5"/><circle cx="9" cy="19" r="1.5"/><circle cx="17" cy="19" r="1.5"/></svg><b>Basket</b></span><span><svg width="20" height="20" viewBox="0 0 24 24" fill="none" stroke="#0f1111" stroke-width="1.7" stroke-linecap="round"><path d="M4 7h16M4 12h16M4 17h16"/></svg><b>Browse</b></span></div><div class="ph-home"></div></div>
+</div><img class="ph-frame" src="img/frame/iphone.png" alt="" width="640" height="1283" loading="lazy"></div><figcaption>One page · Amazon decides on ratings</figcaption></figure>
 
   </div>
   </div>
@@ -223,7 +223,7 @@
         <li><strong>The shelf.</strong> Amazon.co.uk search "minoxidil 5%", first page, London EC2A address, 12 October 2026: 123 results, 12 sponsored tiles removed. Organic results 1 to 5 are shown; results 1 and 5 are Sons pages. Your 1 x 60 ml page is not among the 48 organic results.</li>
         <li><strong>Your website.</strong> sons.co.uk, 12 October 2026: the shop lists a minoxidil spray, shampoos, conditioner and vitamins; no hair clay is listed.</li>
         <li><strong>Company.</strong> CAREFORSONS LIMITED, company number 11557956, incorporated 7 September 2018, registered office Tintagel House, 92 Albert Embankment, London SE1 7TY; directors Adrian Gilbane and William Kennedy, both since incorporation. Read at Companies House on 12 October 2026. That Sons UK on Amazon is this company is not confirmed.</li>
-        <li><strong>What is real and what is a concept.</strong> Real: every number, date, rating count, search rank, price, and the left phone. Concept: the gallery frames, the hero image and the right phone, built from Sons' own box and bottle photograph. Whether Amazon lets your account change each element of a page is confirmed in the first week of Care, before anything is filed.</li>
+        <li><strong>What is real and what is a concept.</strong> Real: every number, date, rating count, search rank, price, and the left phone: the second page, B0CY33HRL6, with its own photo, as it stood on 12 October 2026. Concept: the gallery frames, the hero image and the right phone (the one page after the case, with the 1,985 ratings it shows today), built from Sons' own box and bottle photograph. Whether Amazon lets your account change each element of a page is confirmed in the first week of Care, before anything is filed.</li>
       </ul></details>
     </div>
   </section>

diff --git a/r/minky-care/index.html b/r/minky-care/index.html
@@ -79,13 +79,13 @@
         <tbody>
           <tr><td class="n">1</td><td class="p"><b>3.5L Food Waste Caddy, Grey</b><small>B09JPVL83C · 4.5 (5,010) · 2K+ bought in past month</small></td><td class="g"><ul><li>1 photo of 7</li></ul></td><td class="c"><ul><li>6 new photos</li></ul></td></tr>
           <tr><td class="n">2</td><td class="p"><b>Carpet Reviver, 1.5m</b><small>B0H51KG8KZ · 4.5 (24) · 2K+ bought in past month</small></td><td class="g"><ul><li>6 photos of 7</li></ul></td><td class="c"><ul><li>1 new photo</li></ul></td></tr>
-          <tr><td class="n">3</td><td class="p"><b>Hob Scraper</b><small>B07WSXVKFD · 4.5 (5,809) · 1K+ bought in past month · offer held by KrazyMart Ltd · offer held by KrazyMart Ltd · offer held by KrazyMart Ltd</small></td><td class="g"><ul><li>1 photo of 7</li><li>No A+</li></ul></td><td class="c"><ul><li>6 new photos</li><li>A+ on request</li></ul></td></tr>
+          <tr><td class="n">3</td><td class="p"><b>Hob Scraper</b><small>B07WSXVKFD · 4.5 (5,809) · 1K+ bought in past month · offer held by KrazyMart Ltd</small></td><td class="g"><ul><li>1 photo of 7</li><li>No A+</li></ul></td><td class="c"><ul><li>6 new photos</li><li>A+ on request</li></ul></td></tr>
           <tr><td class="n">4</td><td class="p"><b>Washing Up Bowl with Sink Plug, 11L</b><small>B0BV2K66L5 · 4.5 (2,629) · 900+ bought in past month</small></td><td class="g"><ul><li>5 photos of 7</li><li>No A+</li></ul></td><td class="c"><ul><li>2 new photos</li><li>A+ on request</li></ul></td></tr>
-          <tr><td class="n">5</td><td class="p"><b>Anti-Bacterial Cleaning Pad, 3 pack</b><small>B07QQBHTT4 · 4.7 (6,911) · 800+ bought in past month · offer held by Bargain Genie UK · offer held by Bargain Genie UK · offer held by Bargain Genie UK</small></td><td class="g"><ul><li>3 photos of 7</li><li>Title runs to 190 characters</li></ul></td><td class="c"><ul><li>4 new photos</li><li>Title cut from 190 characters</li></ul></td></tr>
-          <tr><td class="n">6</td><td class="p"><b>Universal Ironing Board Cover, up to 145 x 54 cm</b><small>B01D886TLE · 4.5 (7,240) · 800+ bought in past month · offer held by SKY WAREHOUSE · offer held by SKY WAREHOUSE · offer held by SKY WAREHOUSE</small></td><td class="g"><ul><li>3 photos of 7</li></ul></td><td class="c"><ul><li>4 new photos</li></ul></td></tr>
+          <tr><td class="n">5</td><td class="p"><b>Anti-Bacterial Cleaning Pad, 3 pack</b><small>B07QQBHTT4 · 4.7 (6,911) · 800+ bought in past month · offer held by Bargain Genie UK</small></td><td class="g"><ul><li>3 photos of 7</li><li>Title runs to 190 characters</li></ul></td><td class="c"><ul><li>4 new photos</li><li>Title cut from 190 characters</li></ul></td></tr>
+          <tr><td class="n">6</td><td class="p"><b>Universal Ironing Board Cover, up to 145 x 54 cm</b><small>B01D886TLE · 4.5 (7,240) · 800+ bought in past month · offer held by SKY WAREHOUSE</small></td><td class="g"><ul><li>3 photos of 7</li></ul></td><td class="c"><ul><li>4 new photos</li></ul></td></tr>
           <tr><td class="n">7</td><td class="p"><b>SmartFit Performance Ironing Board Cover, 125 x 45 cm</b><small>B09Q3LZZLP · 4.2 (156) · 600+ bought in past month</small></td><td class="g"><ul><li>3 photos of 7</li><li>No A+</li><li>"minky" not in the title</li></ul></td><td class="c"><ul><li>"minky" in the title</li><li>4 new photos</li><li>A+ on request</li></ul></td></tr>
-          <tr><td class="n">8</td><td class="p"><b>M Cloth for Glass and Windows</b><small>B075DFFZ4L · 4.7 (257) · 600+ bought in past month · offer held by QUAILITAS LIMITED · offer held by QUAILITAS LIMITED · offer held by QUAILITAS LIMITED</small></td><td class="g"><ul><li>4 photos of 7</li><li>No A+</li></ul></td><td class="c"><ul><li>3 new photos</li><li>A+ on request</li></ul></td></tr>
-          <tr><td class="n">9</td><td class="p"><b>Velvet Lint & Hair Removing Brush</b><small>B018GKHJPE · 4.2 (2,236) · 400+ bought in past month · offer held by Concept4U (UK) ® · offer held by Concept4U (UK) ® · offer held by Concept4U (UK) ®</small></td><td class="g"><ul><li>1 photo of 7</li></ul></td><td class="c"><ul><li>6 new photos</li></ul></td></tr>
+          <tr><td class="n">8</td><td class="p"><b>M Cloth for Glass and Windows</b><small>B075DFFZ4L · 4.7 (257) · 600+ bought in past month · offer held by QUAILITAS LIMITED</small></td><td class="g"><ul><li>4 photos of 7</li><li>No A+</li></ul></td><td class="c"><ul><li>3 new photos</li><li>A+ on request</li></ul></td></tr>
+          <tr><td class="n">9</td><td class="p"><b>Velvet Lint & Hair Removing Brush</b><small>B018GKHJPE · 4.2 (2,236) · 400+ bought in past month · offer held by Concept4U (UK) ®</small></td><td class="g"><ul><li>1 photo of 7</li></ul></td><td class="c"><ul><li>6 new photos</li></ul></td></tr>
           <tr><td class="n">10</td><td class="p"><b>Smartfit Pearl Activ Ironing Board Cover, 125 x 45 cm</b><small>B07H8CPQWZ · 4.5 (280) · 400+ bought in past month</small></td><td class="g"><ul><li>2 photos of 7</li></ul></td><td class="c"><ul><li>5 new photos</li></ul></td></tr>
         </tbody>
       </table></div>
@@ -100,9 +100,9 @@
         </article>
         <article>
           <span class="micro">WHO HOLDS THE OFFER</span>
-          <h3>On 36 of the 56 pages you can buy, Home & Garden Direct holds the offer.</h3>
-          <p>Home & Garden Direct holds the featured offer on 36 of the 56 pages that can be bought, and Amazon holds it on 11. 9 other shops hold it on one page each, among them KrazyMart Ltd on the Hob Scraper and Bargain Genie UK on the Anti-Bacterial Cleaning Pad.</p>
-          <p>We cannot see from outside which of these accounts are yours and which buy from you. Whoever holds the offer, a shopper sees the same page, with the same photos and the same title.</p>
+          <h3>Your own account, Home & Garden Direct, holds the offer on 36 of the 56 pages you can buy.</h3>
+          <p>Home & Garden Direct is the seller account of Vale Mill (Rochdale) Limited. Amazon holds the featured offer on 11 pages, and 9 other shops hold it on one page each, among them KrazyMart Ltd on the Hob Scraper and Bargain Genie UK on the Anti-Bacterial Cleaning Pad.</p>
+          <p>Whoever holds the offer, a shopper sees the same page, with the same photos and the same title.</p>
           <p class="so"><b>So:</b> the weekly check lists who holds the offer on every page; the photos and titles are the same for all of them, so they are brought up once.</p>
         </article>
         <article>

diff --git a/r/zima-dental-care/og.html b/r/zima-dental-care/og.html
@@ -12,5 +12,5 @@ p{font-size:23px;line-height:1.45;color:#3f4d45;margin:24px 0 0}
 .bar b{font-family:'Lora',serif;font-weight:400;font-size:24px;margin-right:8px;color:#b8cfa9}
 </style></head><body><div class="l"><div class="wm">Shelf <i>&amp;</i> Scale</div><div class="eyebrow">FOR ZIMA DENTAL · AMAZON UK</div>
 <h1>We read 14 of your Amazon pages. <em>We fix what we find, then keep watch.</em></h1><p>Your pages, what each one is missing against our standard, one of them rebuilt, and what it takes to keep all of them in order every week.</p></div>
-<div class="card"><img src="img/pod-main-v1.jpg"></div>
+<div class="card"><img src="img/ph-pod-today.jpg"></div>
 <div class="bar"><span><b>14 pages</b>read one by one</span><span><b>10 of 14</b>not on sale today</span><span><b>from £900</b>a month</span></div></body></html>
